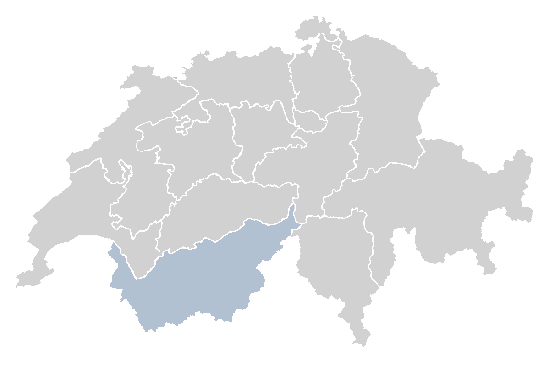
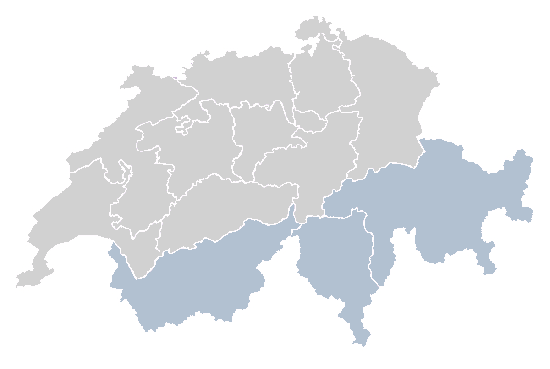
new region on map Switzerland

Changed region(s): [[0.5255, 0.3577, 0.9891, 0.9539]]

diff --git a/content/land.html b/content/land.html
@@ -318,10 +318,28 @@ if($vars["seizoentype"]==2 and ($themalandinfo["naam"]=="Frankrijk" or $themalan
 #		echo wt_dump($regio["aantal_acc"]);
 
 		# Wallis
-		$coords[93]="294,207,292,214,294,222,296,223,300,225,295,228,290,229,289,234,286,237,279,243,279,244,282,246,276,252,269,259,266,260,262,260,255,268,260,273,262,277,264,281,262,286,258,290,251,292,248,294,249,301,247,305,245,308,240,309,236,309,232,314,230,317,231,322,224,322,222,320,219,319,216,321,215,318,212,315,209,313,202,313,200,312,198,311,195,312,194,316,190,315,182,322,176,326,166,322,163,326,157,327,155,328,155,332,153,330,150,329,147,330,147,332,141,326,137,318,135,315,136,314,137,313,132,307,126,299,120,302,123,290,110,287,110,284,118,266,113,259,108,253,109,250,111,249,113,243,116,247,119,254,123,257,136,281,143,278,149,271,159,258,163,257,163,253,166,252,170,255,174,252,180,250,196,250,197,247,196,245,195,245,205,240,209,242,214,244,220,239,228,234,237,230,241,227,244,223,245,221,249,220,255,221,261,224,268,227,278,223,287,218,289,210,290,207,293,205,294,207,294,207";
+		$coords[93]="295,207,293,214,295,222,297,223,301,225,296,228,291,229,290,234,287,237,280,243,280,244,283,246,277,252,270,259,267,260,263,260,256,268,261,273,263,277,265,281,263,286,259,290,252,292,249,294,250,301,248,305,246,308,241,309,237,309,233,314,231,317,232,322,225,322,223,320,220,319,217,321,216,318,213,315,210,313,203,313,201,312,199,311,196,312,195,316,191,315,183,322,177,326,167,322,164,326,158,327,156,328,156,332,154,330,151,329,148,330,148,332,142,326,138,318,136,315,137,314,138,313,133,307,127,299,121,302,124,290,111,287,111,284,119,266,114,259,109,253,110,250,112,249,114,243,117,247,120,254,124,257,137,281,144,278,150,271,160,258,164,257,164,253,167,252,171,255,175,252,181,250,197,250,198,247,197,245,196,245,206,240,210,242,215,244,221,239,229,234,238,230,242,227,245,223,246,221,250,220,256,221,262,224,269,227,279,223,288,218,290,210,291,207,294,205,295,207,295,207";
+
+		# Ticino
+		$coords[228]="357,213,365,213,366,215,363,223,364,230,368,232,371,234,373,241,371,255,369,258,370,262,368,267,370,273,370,277,375,282,379,288,377,290,375,292,371,294,370,293,370,296,372,301,370,303,368,305,363,308,363,318,362,318,361,321,363,329,367,331,371,335,364,347,358,343,353,344,355,341,357,339,351,329,350,324,344,320,339,317,346,305,343,301,340,298,338,300,332,295,329,299,318,294,316,290,308,279,301,276,298,273,299,271,300,270,298,267,297,265,302,251,300,236,297,235,293,237,294,231,300,228,303,225,306,222,307,220,308,218,313,217,320,220,325,218,342,220,352,216,353,213,357,210,357,213,357,213";
 
 		# Graubunden - heeft te veel coordinaten voor bijvoorbeeld cutemap, er zijn nog geen accommodaties in deze regio dus ik kan niet zien of het werkt
 		$coords[141]="425,140,435,140,448,143,461,146,462,147,463,150,461,155,462,159,477,165,483,171,488,175,504,171,503,166,505,161,512,162,513,158,515,152,521,150,524,151,524,154,528,157,532,160,530,163,529,167,528,175,524,183,527,186,524,188,522,191,522,193,524,195,521,196,520,200,521,208,527,207,530,209,532,213,530,222,528,223,525,221,525,220,521,219,517,219,514,221,508,218,505,215,506,213,507,212,505,209,504,207,487,211,486,215,481,224,480,233,480,239,483,242,487,244,492,242,493,243,494,246,488,256,489,260,493,265,496,269,488,273,484,275,483,268,477,265,477,255,474,251,472,249,466,248,458,250,450,256,447,253,443,257,443,263,439,262,434,264,427,262,423,258,416,249,416,235,416,229,414,227,410,230,409,234,406,232,406,228,403,227,393,230,391,237,389,240,390,243,392,245,392,253,395,258,390,269,383,286,379,286,372,278,369,267,369,266,370,259,371,256,374,255,374,235,368,231,365,227,365,224,368,216,367,214,366,214,362,210,358,210,356,207,352,208,350,208,349,210,349,214,346,216,343,218,332,216,325,214,323,207,323,203,324,199,330,196,332,193,333,191,333,192,336,193,339,190,341,186,343,182,348,180,350,181,353,183,364,179,369,170,372,170,373,172,375,174,382,169,392,162,415,168,415,168,417,165,418,161,420,156,426,152,419,141,423,139,425,140,425,140";
+
+
+		// $coords[]="320,24,322,21,323,18,327,23,332,24,329,24,329,27,330,34,338,37,335,39,332,41,328,39,326,37,324,33,321,34,325,39,328,42,332,43,339,40,341,42,339,46,334,44,332,47,333,49,336,51,342,54,344,59,345,61,349,62,348,65,348,70,350,73,352,78,351,79,350,81,353,84,360,95,356,97,355,101,355,104,344,105,339,105,337,106,338,109,330,111,326,114,326,120,311,110,303,112,299,111,296,108,295,102,297,97,300,91,298,93,294,87,292,81,292,73,292,69,290,66,293,61,297,55,306,52,302,50,304,46,308,45,312,46,310,48,308,52,312,58,316,49,317,44,319,42,321,40,320,39,319,38,319,35,320,33,316,36,312,36,310,37,304,41,300,39,296,37,296,32,299,30,300,27,301,24,304,22,309,20,315,17,318,17,320,24,320,24";
+		// $coords[]="341,29,342,30,343,31,346,37,348,40,351,42,358,38,366,35,370,37,375,38,382,40,394,45,405,54,408,58,412,63,412,64,415,68,421,70,427,68,430,71,433,73,438,74,436,74,436,76,437,80,440,84,435,87,431,91,429,96,425,99,423,103,418,118,422,131,419,134,416,137,420,144,423,151,420,154,418,157,414,168,410,165,404,163,393,162,384,166,376,172,373,169,371,168,367,169,365,174,362,178,355,180,348,178,348,174,354,170,358,166,356,162,360,154,357,149,352,144,353,142,357,137,361,134,359,132,364,119,361,117,359,117,360,112,342,112,341,109,343,107,346,107,350,106,355,105,357,102,357,100,360,97,362,94,357,86,353,78,354,76,356,76,352,73,351,69,351,61,346,59,344,57,345,56,346,55,341,51,334,47,340,50,344,42,341,39,340,37,340,33,337,30,336,29,338,29,341,29,341,29";
+		// $coords[]="274,48,278,48,281,50,285,54,291,56,293,55,294,54,294,56,291,60,287,64,291,79,290,80,289,81,290,83,291,84,296,95,294,97,291,100,292,110,292,115,294,123,289,121,287,118,284,110,282,103,281,100,278,100,274,101,271,103,268,109,270,105,267,104,262,106,259,104,257,103,253,106,249,102,246,100,242,101,241,102,241,106,236,105,231,108,230,103,221,104,216,101,212,98,199,102,200,107,204,110,207,113,209,117,207,122,197,119,193,120,190,126,187,127,185,130,187,134,184,134,185,131,180,130,177,129,184,129,184,125,188,123,192,120,189,116,187,115,183,116,180,117,181,120,174,113,187,105,195,99,200,94,197,89,192,86,182,83,174,78,177,78,180,81,187,81,188,78,186,74,183,74,186,74,187,70,185,68,183,68,189,70,193,66,195,62,193,59,192,60,201,53,200,54,203,55,205,53,207,51,210,54,204,56,207,60,211,62,217,59,225,56,225,54,228,52,236,52,237,56,240,59,259,56,266,49,271,47,274,48,274,48";
+		// $coords[]="220,107,220,106,219,105,221,105,226,106,230,114,234,125,232,133,232,142,235,145,242,148,237,156,234,158,232,161,233,162,234,163,232,165,231,167,231,171,233,174,242,180,233,182,230,180,228,178,226,178,226,180,215,173,210,174,207,177,199,179,197,181,196,185,194,183,188,189,186,195,178,200,174,193,169,192,169,183,173,175,171,173,174,170,176,168,173,164,168,162,159,163,160,158,161,156,159,156,160,151,162,150,160,146,158,145,154,146,152,148,142,151,138,148,138,146,139,141,141,141,143,140,145,136,143,131,138,129,149,123,151,125,153,127,162,122,175,117,176,120,176,122,178,123,186,118,189,121,185,122,182,124,179,126,176,126,175,129,176,133,181,134,182,135,184,137,186,134,188,130,191,127,195,122,204,124,207,123,209,122,210,119,212,117,208,111,202,103,211,101,215,104,220,107,220,107";
+		// $coords[]="143,68,149,66,154,68,152,75,159,77,159,78,162,80,169,77,175,81,182,86,192,88,198,93,184,103,171,112,173,117,166,118,161,120,154,124,151,122,150,121,142,124,135,129,143,134,141,136,140,139,136,143,136,146,137,151,142,153,150,150,159,148,159,151,156,151,155,153,156,155,157,157,156,160,154,164,173,166,173,171,169,169,167,171,168,172,170,176,166,185,168,192,176,199,174,202,170,202,169,205,169,214,165,213,162,215,158,222,156,220,147,228,143,229,140,230,136,233,133,237,131,230,126,226,121,225,118,226,117,229,114,224,120,223,124,219,118,214,115,213,112,215,112,206,119,203,119,200,125,194,128,189,127,188,126,187,130,180,134,174,133,168,131,166,122,159,119,159,118,162,121,170,122,171,124,172,122,177,124,182,120,183,119,182,118,181,115,182,114,183,110,180,106,176,107,174,109,172,107,168,105,167,103,158,101,157,89,162,74,172,71,172,69,166,67,160,73,153,81,151,88,148,102,139,99,137,100,134,103,133,104,131,104,129,112,123,120,116,130,107,128,101,132,99,136,96,142,91,139,87,136,86,121,89,126,79,130,75,135,73,133,67,135,66,143,68,143,68";
+		// $coords[]="226,182,229,180,232,183,235,184,242,182,243,183,246,185,251,183,259,186,264,189,271,187,279,189,283,186,289,184,292,186,297,186,298,197,293,197,293,203,290,205,288,209,287,212,286,217,278,221,271,224,250,218,248,218,243,223,238,228,230,231,221,237,215,241,206,237,200,239,193,245,195,247,190,249,184,246,177,248,171,253,170,248,166,250,162,252,159,250,158,248,158,244,159,239,162,235,161,232,163,221,166,217,170,213,171,210,172,205,175,208,177,202,183,197,188,197,187,192,191,189,195,186,198,183,201,182,202,182,202,181,208,177,215,175,220,178,226,182,226,182";
+		// $coords[]="426,140,436,140,449,143,462,146,463,147,464,150,462,155,463,159,478,165,484,171,489,175,505,171,504,166,506,161,513,162,514,158,516,152,522,150,525,151,525,154,529,157,533,160,531,163,530,167,529,175,525,183,528,186,525,188,523,191,523,193,525,195,522,196,521,200,522,208,528,207,531,209,533,213,531,222,529,223,526,221,526,220,522,219,518,219,515,221,509,218,506,215,507,213,508,212,506,209,505,207,488,211,487,215,482,224,481,233,481,239,484,242,488,244,493,242,494,243,495,246,489,256,490,260,494,265,497,269,489,273,485,275,484,268,478,265,478,255,475,251,473,249,467,248,459,250,451,256,448,253,444,257,444,263,440,262,435,264,428,262,424,258,417,249,417,235,417,229,415,227,411,230,410,234,407,232,407,228,404,227,394,230,392,237,390,240,391,243,393,245,393,253,396,258,391,269,384,286,380,286,373,278,370,267,370,266,371,259,372,256,375,255,375,235,369,231,366,227,366,224,369,216,368,214,367,214,363,210,359,210,357,207,353,208,351,208,350,210,350,214,347,216,344,218,333,216,326,214,324,207,324,203,325,199,331,196,333,193,334,191,334,192,337,193,340,190,342,186,344,182,349,180,351,181,354,183,365,179,370,170,373,170,374,172,376,174,383,169,391,164,414,170,416,168,418,165,419,161,421,156,427,152,420,141,424,139,426,140,426,140";
+		// $coords[]="107,172,105,172,104,176,105,180,109,183,117,185,122,184,125,182,127,179,125,176,127,171,121,162,125,166,129,170,131,169,131,168,128,178,125,183,122,187,126,189,117,201,110,205,109,214,109,216,111,217,113,217,118,217,120,219,116,221,112,222,111,224,112,228,117,231,119,229,122,228,130,230,131,240,133,241,134,240,136,237,140,233,143,232,147,231,151,226,155,224,161,223,161,227,159,233,158,236,155,239,157,243,155,248,157,252,162,256,158,257,154,261,153,266,146,273,138,278,131,267,127,257,122,254,119,245,114,240,97,235,79,235,69,241,56,245,48,252,44,259,46,261,48,263,47,263,46,264,46,268,50,271,53,269,53,268,54,271,51,274,47,276,43,278,41,283,38,285,34,285,24,286,20,285,17,288,20,281,18,278,17,278,23,272,28,271,33,272,35,269,33,264,36,257,40,250,35,246,28,242,29,240,31,238,30,236,29,235,32,229,39,222,34,217,56,197,67,187,73,182,71,180,70,179,71,174,80,171,89,167,100,160,102,166,107,172,107,172";
+		// $coords[]="303,114,311,112,315,113,317,117,320,120,327,122,326,125,324,128,320,130,314,132,312,131,312,130,306,130,301,126,299,125,297,126,294,111,294,109,295,109,303,114,303,114";
+		// $coords[]="342,113,358,113,357,115,358,118,362,119,358,123,357,128,355,139,349,143,357,156,355,159,353,162,355,167,348,171,345,178,341,179,340,182,339,189,338,190,337,191,335,190,334,189,332,191,330,194,323,198,321,207,322,210,324,211,324,215,321,217,313,215,306,215,305,217,306,222,302,223,298,222,296,220,295,214,297,208,295,204,294,201,299,198,298,192,298,189,301,187,289,182,284,183,280,187,272,184,265,186,255,182,255,172,259,164,260,166,268,157,266,155,271,154,273,153,274,150,277,151,282,149,287,151,291,146,291,149,297,149,298,146,300,147,302,150,305,148,308,145,306,141,302,139,294,137,297,132,300,130,313,135,322,132,326,127,329,122,328,119,327,118,333,114,340,112,342,113,342,113";
+		// $coords[]="280,102,285,117,289,124,298,128,291,136,291,139,298,139,302,140,306,145,304,147,299,144,296,145,296,147,293,147,292,145,291,144,288,145,286,147,277,146,273,148,273,152,268,152,264,154,264,156,263,158,256,164,253,168,252,174,254,179,251,181,247,182,241,178,235,173,234,169,235,161,238,156,244,152,244,145,237,144,234,139,235,135,235,129,236,126,237,125,232,110,243,109,243,103,247,103,250,110,253,107,258,106,269,112,271,110,273,108,276,102,280,102,280,102";
+
+
 
 	}
 	echo "<div id=\"landkaartklikbaar_kaart\" style=\"".$landkaartklikbaar_kaart_style."\">";
